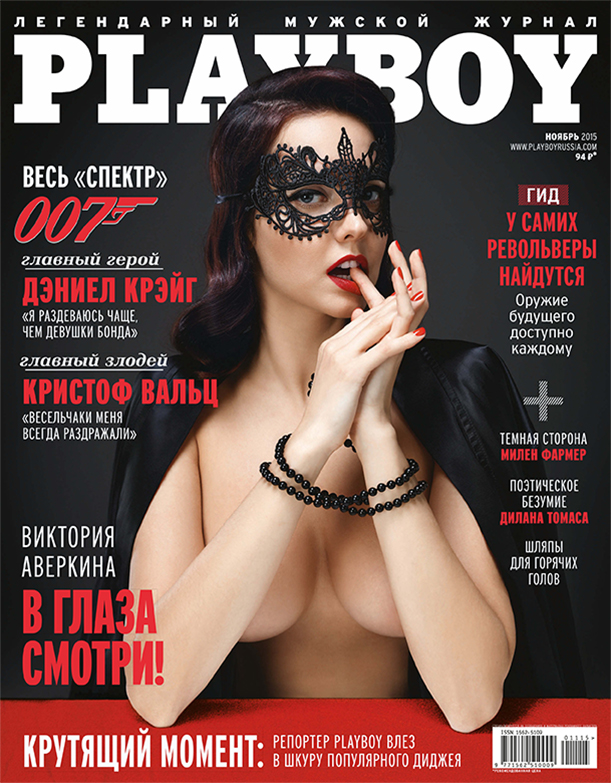
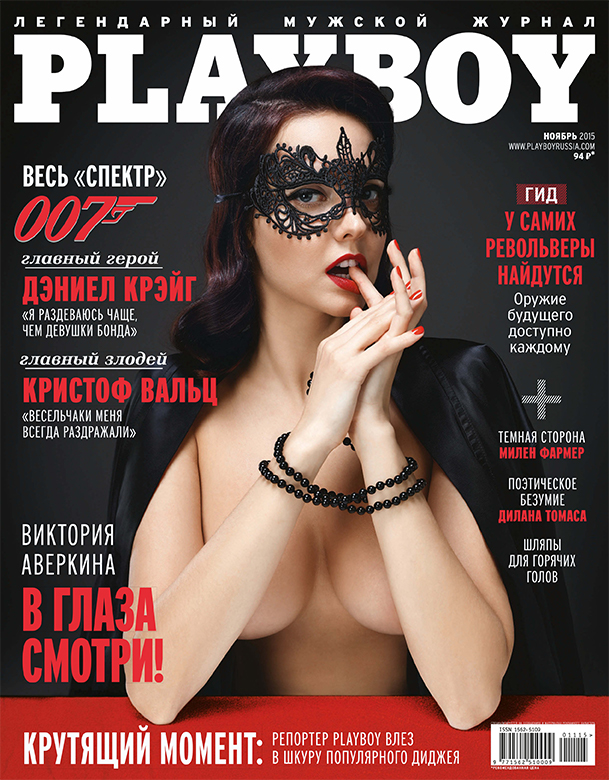
fix

diff --git a/app/index.html b/app/index.html
@@ -515,8 +515,8 @@
           <a class="articles_link" href="#">
             <article class="articles_model">
               <picture class="articles_img-wrapper">
-                <source media="(min-width:1024px )" srcset="img/magazine_mobile.jpg">
-                <img class="articles_img" src="img/magazine.jpg" alt="girls-article">
+                <source media="(min-width:1024px )" srcset="img/magazine.jpg">
+                <img class="articles_img" src="img/magazine_mobile.jpg" alt="girls-article">
               </picture>
             </article>
           </a>
